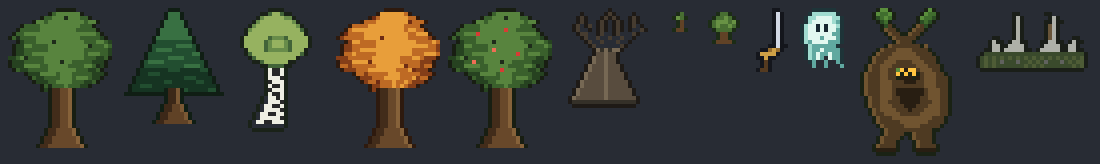
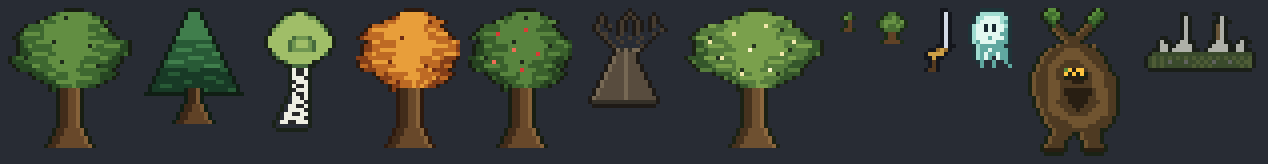
v1.29 п.1 «Деревья»: липа — новый спрайт tree_lime (широкая крона, кремовые цветки, 20% в TREE_REFS); освежены дуб (крона пышнее, палитра ярче), берёза (отцентрована, крона светлее), сосна (контраст ярусов); генератор — make_wishlist_sprites.py (prof-параметр), деревья исторически там, не в make_bes

diff --git a/tools/make_wishlist_sprites.py b/tools/make_wishlist_sprites.py
@@ -36,6 +36,19 @@ PAL_LEAF = {
     "u": P(134, 98, 58),
 }
 
+# v1.29 п.1: дуб освежён — светлые тона ярче (крона пышнее, см. OAK ниже).
+# Отдельная палитра, чтобы не трогать autumn/fruit2, наследовавшие PAL_LEAF.
+PAL_OAK = {
+    "k": P(24, 30, 18),
+    "d": P(38, 70, 34),
+    "l": P(62, 104, 48),
+    "h": P(98, 142, 66),
+    "m": P(30, 44, 26),
+    "t": P(66, 44, 26),
+    "T": P(104, 72, 42),
+    "u": P(134, 98, 58),
+}
+
 PAL_AUTUMN = {
     "k": P(46, 26, 14),
     "d": P(132, 62, 24),
@@ -48,11 +61,12 @@ PAL_AUTUMN = {
     "r": P(198, 52, 48),
 }
 
+# v1.29 п.1: сосна освежена — глубже контраст ярусов
 PAL_PINE = {
     "k": P(16, 30, 20),
-    "d": P(22, 52, 34),
-    "l": P(34, 78, 48),
-    "h": P(56, 112, 66),
+    "d": P(24, 58, 38),
+    "l": P(40, 90, 54),
+    "h": P(64, 126, 76),
     "m": P(16, 36, 24),
     "t": P(60, 40, 24),
     "T": P(96, 66, 38),
@@ -64,13 +78,14 @@ PAL_FRUIT["r"] = P(214, 60, 52)
 PAL_FRUIT["R"] = P(240, 110, 84)
 
 
-def build_tree(pal, seed=1, style="round", W=26, trunk_rows=15, dots=None):
+def build_tree(pal, seed=1, style="round", W=26, trunk_rows=15, dots=None, prof=None):
     """Крона по профилю + дизеринг, ствол с расширением к низу."""
-    if style == "cone":
-        prof = [1, 2, 2, 3, 3, 4, 4, 5, 5, 6, 6, 7, 7, 8, 8, 9, 9, 10, 10, 11, 11, 12]
-        trunk_rows = 9
-    else:
-        prof = [2, 4, 6, 8, 9, 10, 11, 12, 12, 13, 13, 13, 13, 12, 12, 11, 10, 9, 8, 6, 4, 2]
+    if prof is None:
+        if style == "cone":
+            prof = [1, 2, 2, 3, 3, 4, 4, 5, 5, 6, 6, 7, 7, 8, 8, 9, 9, 10, 10, 11, 11, 12]
+            trunk_rows = 9
+        else:
+            prof = [2, 4, 6, 8, 9, 10, 11, 12, 12, 13, 13, 13, 13, 12, 12, 11, 10, 9, 8, 6, 4, 2]
     H = len(prof)
     cx = W // 2
     total = H + trunk_rows
@@ -133,23 +148,47 @@ def build_tree(pal, seed=1, style="round", W=26, trunk_rows=15, dots=None):
 
 FRUIT_DOTS = [(7, 6, "r"), (14, 5, "r"), (11, 10, "R"), (17, 11, "r"), (6, 13, "R"), (13, 15, "r")]
 
-OAK = build_tree(PAL_LEAF, seed=3)
+OAK = build_tree(PAL_OAK, seed=3, W=31,
+                 prof=[2, 5, 7, 9, 10, 11, 12, 13, 14, 14, 14, 14, 14, 14, 13, 12, 11, 10, 8, 6, 4, 2])
 AUTUMN = build_tree(PAL_AUTUMN, seed=7)
 FRUIT = build_tree(PAL_FRUIT, seed=3, dots=FRUIT_DOTS)
 PINE = build_tree(PAL_PINE, seed=5, style="cone")
 
+# ------------------------------------------------------------- липа ----------
+# v1.29 п.1 «Деревья»: липа — самая широкая крона серии, свежий жёлто-зелёный
+# тон и душистые кремовые цветки точками.
+PAL_LIPA = {
+    "k": P(28, 34, 20),
+    "d": P(52, 86, 42),
+    "l": P(86, 124, 60),
+    "h": P(122, 160, 76),
+    "m": P(36, 52, 30),
+    "t": P(70, 50, 30),
+    "T": P(110, 80, 48),
+    "u": P(140, 104, 62),
+    "f": P(240, 232, 170),
+    "F": P(250, 244, 200),
+}
+
+LIPA_DOTS = [(12, 6, "f"), (20, 4, "f"), (16, 10, "F"), (24, 11, "f"),
+             (9, 12, "f"), (21, 15, "F"), (14, 16, "f"), (27, 8, "f"), (6, 8, "f")]
+
+LIPA = build_tree(PAL_LIPA, seed=11, W=35, trunk_rows=15,
+                  prof=[2, 4, 7, 9, 11, 13, 14, 15, 16, 16, 16, 16, 16, 15, 14, 13, 11, 9, 7, 5, 3, 1],
+                  dots=LIPA_DOTS)
+
 # ------------------------------------------------------------- берёза --------
 BIRCH_PAL = {
     "k": P(26, 34, 24),
-    "d": P(66, 100, 56),
-    "l": P(104, 140, 74),
-    "h": P(150, 178, 96),
+    "d": P(70, 106, 60),
+    "l": P(112, 150, 80),
+    "h": P(160, 190, 104),
     "w": P(214, 214, 200),
     "W": P(238, 238, 226),
     "b": P(40, 40, 40),
 }
 
-BIRCH = [
+BIRCH_RAW = [
     ".........kkkk...........",
     ".......kkdhhdkk.........",
     "......klhhhhhllk........",
@@ -182,6 +221,9 @@ BIRCH = [
     "....kttttttttk..........",
     ".....kkkkkkkk...........",
 ]
+
+# v1.29 п.1: берёза отцентрована (крона и ствол были смещены влево на 1 px)
+BIRCH = ["." + r[:23] if r.strip() else r for r in BIRCH_RAW]
 
 # --------------------------------------------------------- сухостой ----------
 OLD_PAL = {
@@ -439,12 +481,13 @@ def scale_px(px, f):
 
 
 SPRITES = [
-    ("tree_oak", OAK, PAL_LEAF),
+    ("tree_oak", OAK, PAL_OAK),
     ("tree_pine", PINE, PAL_PINE),
     ("tree_birch", BIRCH, BIRCH_PAL),
     ("tree_autumn", AUTUMN, PAL_AUTUMN),
     ("tree_fruit2", FRUIT, PAL_FRUIT),
     ("tree_old", OLD, OLD_PAL),
+    ("tree_lime", LIPA, PAL_LIPA),
     ("sap1", SAP1, SAP_PAL),
     ("sap2", SAP2, SAP_PAL),
     ("sword", SWORD, SWORD_PAL),

diff --git a/PLAN.md b/PLAN.md
@@ -668,6 +668,14 @@ CHANGELOG_E2.md, раздел v1.27.1.
    события → уровни города Т1→Т2→Т3 → преступность (порядок решает
    заказчик).
 
+**Статус v1.29 (2026-10-28):** п.1 «Деревья» выполнен (ветка
+feat/v1.29-trees): липа — новый спрайт tree_lime (генератор
+make_wishlist_sprites.py — деревья исторически живут там, не в
+make_bestiary.py), 20% в TREE_REFS; освежены дуб (пышнее крона, ярче
+палитра), берёза (отцентрована, светлее крона), сосна (контраст ярусов).
+**Следующий пункт — п.2 «Славянская нечисть в данжах», начинать в новом
+чате.**
+
 **Следующий шаг: приёмка v1.28.0, затем v1.29 «Славянская нечисть» —
 начинать в новом чате.**
 
